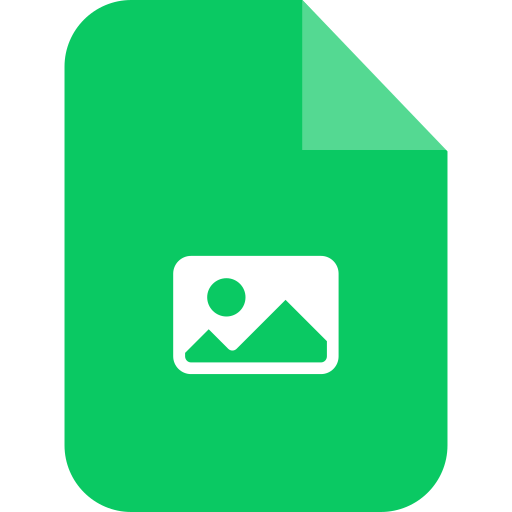
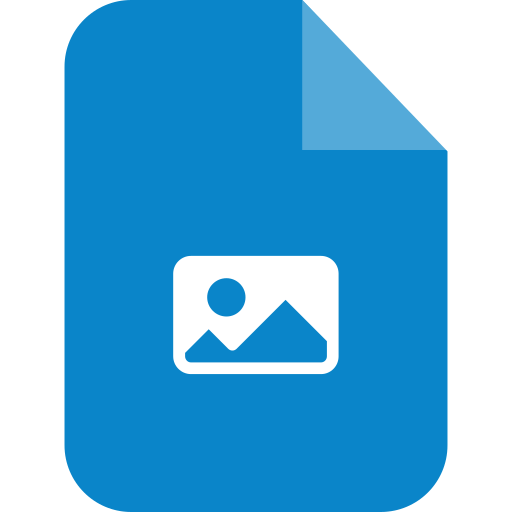
Images, text, Documents are done
the only thing left is the Compressed files

diff --git a/main.py b/main.py
@@ -31,13 +31,13 @@ class DragDropApp:
             file_path = event.data.replace("{", "").replace("}", "")
             self.selected_file_path = file_path
             extension = file_path.split(".")[-1].lower()
-            
+
             print(extension)
 
             if extension not in file_conversions:
                 print(f"Unsupported file type: {extension}")
                 return  # Prevent setting the selected file and displaying message
-
+            self.adaptTheme(fileIconMap[extension])
             self.drag_drop_icon.configure(light_image=Image.open(
                 fileIconMap[extension]), dark_image=Image.open(fileIconMap[extension]))
 
@@ -57,7 +57,7 @@ class DragDropApp:
         drag_drop_frame.grid(row=0, column=0, rowspan=3, padx=20, pady=20)
 
         self.drag_drop_label = ctk.CTkLabel(
-            drag_drop_frame, text="Drag'n'Drop your file", anchor="center", font=self.font_dragndrop, wraplength=260)
+            drag_drop_frame, text="Drag & Drop your File", anchor="center", font=self.font_dragndrop, wraplength=260)
         self.drag_drop_label.place(relx=0.5, rely=0.8, anchor="center")
 
         self.drag_drop_icon = ctk.CTkImage(light_image=Image.open(
@@ -66,10 +66,10 @@ class DragDropApp:
             master=drag_drop_frame, width=100, height=100, corner_radius=10, image=self.drag_drop_icon, text="")
         dropped_file_icon.place(relx=0.5, rely=0.4, anchor="center")
 
-        browse_file_button = ctk.CTkButton(
+        self.browse_file_button = ctk.CTkButton(
             drag_drop_frame, text="", width=32, height=32, command=self.browse_for_file, font=self.font_Button, image=ctk.CTkImage(light_image=Image.open(
                 ICON_FOLDER), dark_image=Image.open(ICON_FOLDER), size=(20, 20)))
-        browse_file_button.place(relx=0.86, rely=0.87)
+        self.browse_file_button.place(relx=0.86, rely=0.87)
 
         drag_drop_frame.drop_target_register(DND_FILES)
         drag_drop_frame.dnd_bind('<<Drop>>', on_drop)
@@ -96,13 +96,14 @@ class DragDropApp:
             destination_detailsFrame, text="", anchor="center", bg_color="transparent", fg_color="transparent", wraplength=130)
         self.destination_details.place(relx=0.5, rely=0.6, anchor="center")
 
-        destination_button = ctk.CTkButton(
+        self.destination_button = ctk.CTkButton(
             self.root, text="Browse", width=80, command=self.select_destination, font=self.font_Button)
-        destination_button.grid(row=1, column=1, padx=20, pady=(10, 10+50))
+        self.destination_button.grid(
+            row=1, column=1, padx=20, pady=(10, 10+50))
 
-        convert_button = ctk.CTkButton(
+        self.convert_button = ctk.CTkButton(
             self.root, text="Convert", width=150, height=45, command=self.convert, font=self.font_Button)
-        convert_button.grid(row=2, column=1, padx=20, pady=(0, 10))
+        self.convert_button.grid(row=2, column=1, padx=20, pady=(0, 10))
         # endregion
 
     def browse_for_file(self):
@@ -119,7 +120,7 @@ class DragDropApp:
 
         self.drag_drop_icon.configure(light_image=Image.open(
             fileIconMap[extension]), dark_image=Image.open(fileIconMap[extension]))
-
+        self.adaptTheme(fileIconMap[extension])
         file_name = os.path.basename(
             file_path).replace("{", "").replace("}", "")
 
@@ -137,46 +138,54 @@ class DragDropApp:
         print(f"Selected destination folder: {folder_path}")
 
     def convert(self):
-        from Services import Video, Audio, Documents
+        from Services import Video, Audio, Documents,Images
         desired_extension = self.convert_to_combobox.get()
         extension = self.selected_file_path.split(
             ".")[-1].lower().replace("{", "").replace("}", "")
 
-        # if fileIconMap[extension] in [ICON_TXT, ICON_MD]:
-        #     Audio.convert_audio(self.selected_file_path,
-        #                         desired_extension, self.destination_folder)
-            
+        if fileIconMap[extension] in [ICON_TXT, ICON_MD]:
+            Documents.convert_txt(self.selected_file_path,
+                                desired_extension, self.destination_folder)
+
         if fileIconMap[extension] in [ICON_MUSIC, ICON_RECORD]:
             Audio.convert_audio(self.selected_file_path,
                                 desired_extension, self.destination_folder)
 
-        # if fileIconMap[extension] in [ICON_IMAGE, ICON_SVG]:
-        #     Audio.convert_audio(self.selected_file_path,
-        #                         desired_extension, self.destination_folder)
+        if fileIconMap[extension] in [ICON_IMAGE, ICON_SVG]:
+            Images.convert_Image(self.selected_file_path,
+                                desired_extension, self.destination_folder)
 
-        # if fileIconMap[extension] in [ICON_DOC, ICON_DOCX]:
-        #     Audio.convert_audio(self.selected_file_path,
-        #                         desired_extension, self.destination_folder)
+        if fileIconMap[extension] in [ICON_DOC, ICON_DOCX]:
+            Documents.convert_doc(self.selected_file_path,
+                                desired_extension, self.destination_folder)
 
-        # if fileIconMap[extension] in [ICON_CSV, ICON_XLS]:
-        #     Audio.convert_audio(self.selected_file_path,
-        #                         desired_extension, self.destination_folder)
+        if fileIconMap[extension] in [ICON_CSV, ICON_XLS]:
+            Documents.convert_xls(self.selected_file_path,
+                                desired_extension, self.destination_folder)
 
         # if fileIconMap[extension] == ICON_COMPRESSED:
         #     Audio.convert_audio(self.selected_file_path,
         #                         desired_extension, self.destination_folder)
-            
+
         if fileIconMap[extension] == ICON_PDF:
             Documents.convert_pdf(self.selected_file_path,
-                                desired_extension, self.destination_folder)
-            
+                                  desired_extension, self.destination_folder)
+
         if fileIconMap[extension] == ICON_VIDEO:
             Video.convert_video(self.selected_file_path,
                                 desired_extension, self.destination_folder)
-            
-        # if fileIconMap[extension] == ICON_PPT:
-        #     Audio.convert_audio(self.selected_file_path,
-        #                         desired_extension, self.destination_folder)
+
+        if fileIconMap[extension] == ICON_PPT:
+            Documents.convert_ppt(self.selected_file_path,
+                                desired_extension, self.destination_folder)
+   
+    def adaptTheme(self, Icon):
+        self.convert_button.configure(
+            fg_color=extensionColors[Icon][0], hover_color=extensionColors[Icon][1])
+        self.browse_file_button.configure(
+            fg_color=extensionColors[Icon][0], hover_color=extensionColors[Icon][1])
+        self.destination_button.configure(
+            fg_color=extensionColors[Icon][0], hover_color=extensionColors[Icon][1])
 
     def run(self):
         self.root.mainloop()

diff --git a/Services/Images.py b/Services/Images.py
@@ -1,44 +1,28 @@
+import os
 from PIL import Image
 from os import listdir
 from os.path import splitext, join
 from Services.Utilities import *
 
-target_directory = RES_ImagePath
-output_directory = OUT_ImagePath
-fromExtension = '.png'
-target = '.ico'
+# target_directory = RES_ImagePath
+# output_directory = OUT_ImagePath
+# fromExtension = '.png'
+# target = '.ico'
 
 
-# png to jpg needs conversion to RGB
-for file in listdir(target_directory):
-    filename, extension = splitext(file)
-    print(filename + extension + ":")
-    try:
-        if extension == fromExtension:
-            full_file_path = join(target_directory, filename + extension)
-
-            im = Image.open(full_file_path)
-            #only when converting webp/png/gif to another format that doesn't support transparency
-            # im = im.convert('RGB')
-            output_file_path = join(
-                output_directory, fromExtension.removeprefix(".") + "_to" + target)
-            # im.info.pop('background', None)
-
-            im.save(output_file_path)
-            print(f"Converted {file} to {output_file_path}")
-
-    except OSError as e:
-        print(f"An error occurred while processing {file}: {e}")
-
-
-# def convertImage(path, targetExtension, destinationPath):
+# # png to jpg needs conversion to RGB
+# for file in listdir(target_directory):
 #     filename, extension = splitext(file)
+#     print(filename + extension + ":")
 #     try:
 #         if extension == fromExtension:
-#             im = Image.open(path)
+#             full_file_path = join(target_directory, filename + extension)
 
+#             im = Image.open(full_file_path)
+#             # only when converting webp/png/gif to another format that doesn't support transparency
 #             # im = im.convert('RGB')
-#             output_file_path = join(destinationPath, filename + fromExtension.removeprefix(".") + "_to" + target)
+#             output_file_path = join(
+#                 output_directory, fromExtension.removeprefix(".") + "_to" + target)
 #             # im.info.pop('background', None)
 
 #             im.save(output_file_path)
@@ -46,3 +30,24 @@ for file in listdir(target_directory):
 
 #     except OSError as e:
 #         print(f"An error occurred while processing {file}: {e}")
+
+
+def convert_Image(input_file, output_format, output_dir=None):
+    filename = os.path.basename(input_file)
+    file_name_without_ext, extension = os.path.splitext(filename)
+    extension = extension.removeprefix(".")
+    try:
+        im = Image.open(input_file)
+        print(f"from {extension} to {output_format}")
+        supports_transparency = ["webp", "png", "gif", "svg", "ico"]
+        if extension in supports_transparency and output_format not in supports_transparency:
+            print("I've been there")
+            im = im.convert('RGB')
+
+        output_file_path = os.path.join(
+            output_dir, file_name_without_ext + "." + output_format)
+        im.info.pop('background', None)
+
+        im.save(output_file_path)
+    except OSError as e:
+        print(f"An error occurred while processing {input_file}: {e}")

diff --git a/Services/Documents.py b/Services/Documents.py
@@ -1,4 +1,11 @@
+from pptxtopdf import convert as convert_presentation
 from pdf2docx import Converter
+from docx2pdf import convert
+from openpyxl import Workbook
+import pandas as pd
+import shutil
+import random
+import csv
 import os
 
 
@@ -6,6 +13,66 @@ def convert_pdf(input_file, output_format, output_dir=None):
     cv = Converter(input_file)
     filename = os.path.basename(input_file)
     file_name_without_ext, _ = os.path.splitext(filename)
-    output_path_and_name = os.path.join(output_dir, f"{file_name_without_ext}.{output_format}")
+    output_path_and_name = os.path.join(
+        output_dir, f"{file_name_without_ext}.{output_format}")
     cv.convert(output_path_and_name)
     cv.close()
+
+
+def convert_doc(input_file, output_format, output_dir=None):
+    extension = input_file.split(".")[-1].lower()
+    input_dir = os.path.dirname(input_file)
+    file_name_without_ext = os.path.splitext(os.path.basename(input_file))[0]
+
+    original_input_file = input_file
+    is_doc_file = extension == "doc"
+
+    if is_doc_file:
+        temp_file_name = f"temp_{random.randint(100, 100000)}_{file_name_without_ext}.docx"
+        input_file = os.path.join(input_dir, temp_file_name)
+        os.rename(original_input_file, input_file)
+
+    output_dir = output_dir or input_dir
+    output_file = os.path.join(
+        output_dir, f"{file_name_without_ext}.{output_format}")
+
+    convert(input_file, output_file)
+
+    if is_doc_file:
+        os.rename(input_file, original_input_file)
+
+
+def convert_ppt(input_file, output_format, output_dir=None):
+    convert_presentation(input_file, output_dir)
+
+
+def convert_xls(input_file, output_format, output_dir=None):
+    extension = input_file.split(".")[-1].lower()
+    input_dir = os.path.dirname(input_file)
+    file_name_without_ext = os.path.splitext(os.path.basename(input_file))[0]
+    output_file = os.path.join(
+        output_dir, f"{file_name_without_ext}.{output_format}")
+    if output_format == "csv":
+        read = pd.read_excel(input_file, engine="openpyxl")
+        read.to_csv(output_file, index=False)
+    
+    elif output_format == "xlsx":
+        wb = Workbook()
+        ws = wb.active
+        with open(input_file, 'r') as f:
+            for row in csv.reader(f):
+                ws.append(row)
+        wb.save(output_file)
+    else:
+        print("")  # convert to pdf soon..
+
+
+def convert_txt(input_file, output_format, output_dir=None):
+    input_directory = os.path.dirname(input_file)
+    file_name_without_ext, _ = os.path.splitext(os.path.basename(input_file))
+    output_file = os.path.join(output_dir or input_directory, f"{file_name_without_ext}.{output_format}")
+
+    shutil.copy2(input_file, output_file)
+
+    print(f"File converted successfully: {output_file}")
+

diff --git a/Utils.py b/Utils.py
@@ -16,6 +16,23 @@ ICON_MD = "./Icons/text.png"
 ICON_FOLDER = "./Icons/folder.ico"
 ICON_APP = "./Icons/app.ico"
 
+extensionColors = {
+    ICON_COMPRESSED: ["#ffb11f", "#9f7932"],
+    ICON_DOC: ["#0263d1", "#003d8b"],
+    ICON_DOCX: ["#0263d1", "#003d8b"],
+    ICON_IMAGE: ["#0a85c9", "#04558e"],
+    ICON_MUSIC: ["#9900cc", "#6a008b"],
+    ICON_PPT: ["#e03303", "#b32600"],
+    ICON_PDF: ["#e5252a", "#b11d1c"],
+    ICON_SVG: ["#ff6600", "#bb4f00"],
+    ICON_VIDEO: ["#fa0000", "#b30000"],
+    ICON_XLS: ["#00733b", "#006431"],
+    ICON_RECORD: ["#fa0000", "#b30000"],
+    ICON_CSV: ["#00733b", "#006431"],
+    ICON_TXT: ["#251d36", "#171420"],
+    ICON_MD: ["#251d36", "#171420"],
+}
+
 file_conversions = {
     "jpg": ["png", "tiff", "gif", "jpeg", "webp", "ico", "bmp"],
     "png": ["jpg", "tiff", "gif", "jpeg", "webp", "ico", "bmp"],
@@ -28,12 +45,12 @@ file_conversions = {
     "svg": ["png", "tiff", "jpeg", "jpg", "ico", "webp", "gif", "bmp"],
     "doc": ["pdf"],
     "docx": ["pdf"],
+    "xls": ["csv","pdf","xml"],
+    "xlsx": ["csv","pdf","xml"],
+    "csv": ["xlsx","pdf","xml"],
+    "ppt": ["pdf"],
+    "pptx": ["pdf"],
     "pdf": ["doc", "docx"],
-    "xls": ["xlsx", "csv"],
-    "xlsx": ["xls", "csv"],
-    "csv": ["xls", "xlsx"],
-    "ppt": ["pptx", "pdf"],
-    "pptx": ["ppt", "pdf"],
     "mp3": ["wav", "flac", "aac", "ogg"],
     "wav": ["mp3", "flac", "aac", "ogg"],
     "flac": ["mp3", "wav", "aac", "ogg"],
@@ -87,4 +104,3 @@ fileIconMap = {
     "txt": ICON_TXT,
     "md": ICON_MD,
 }
-
